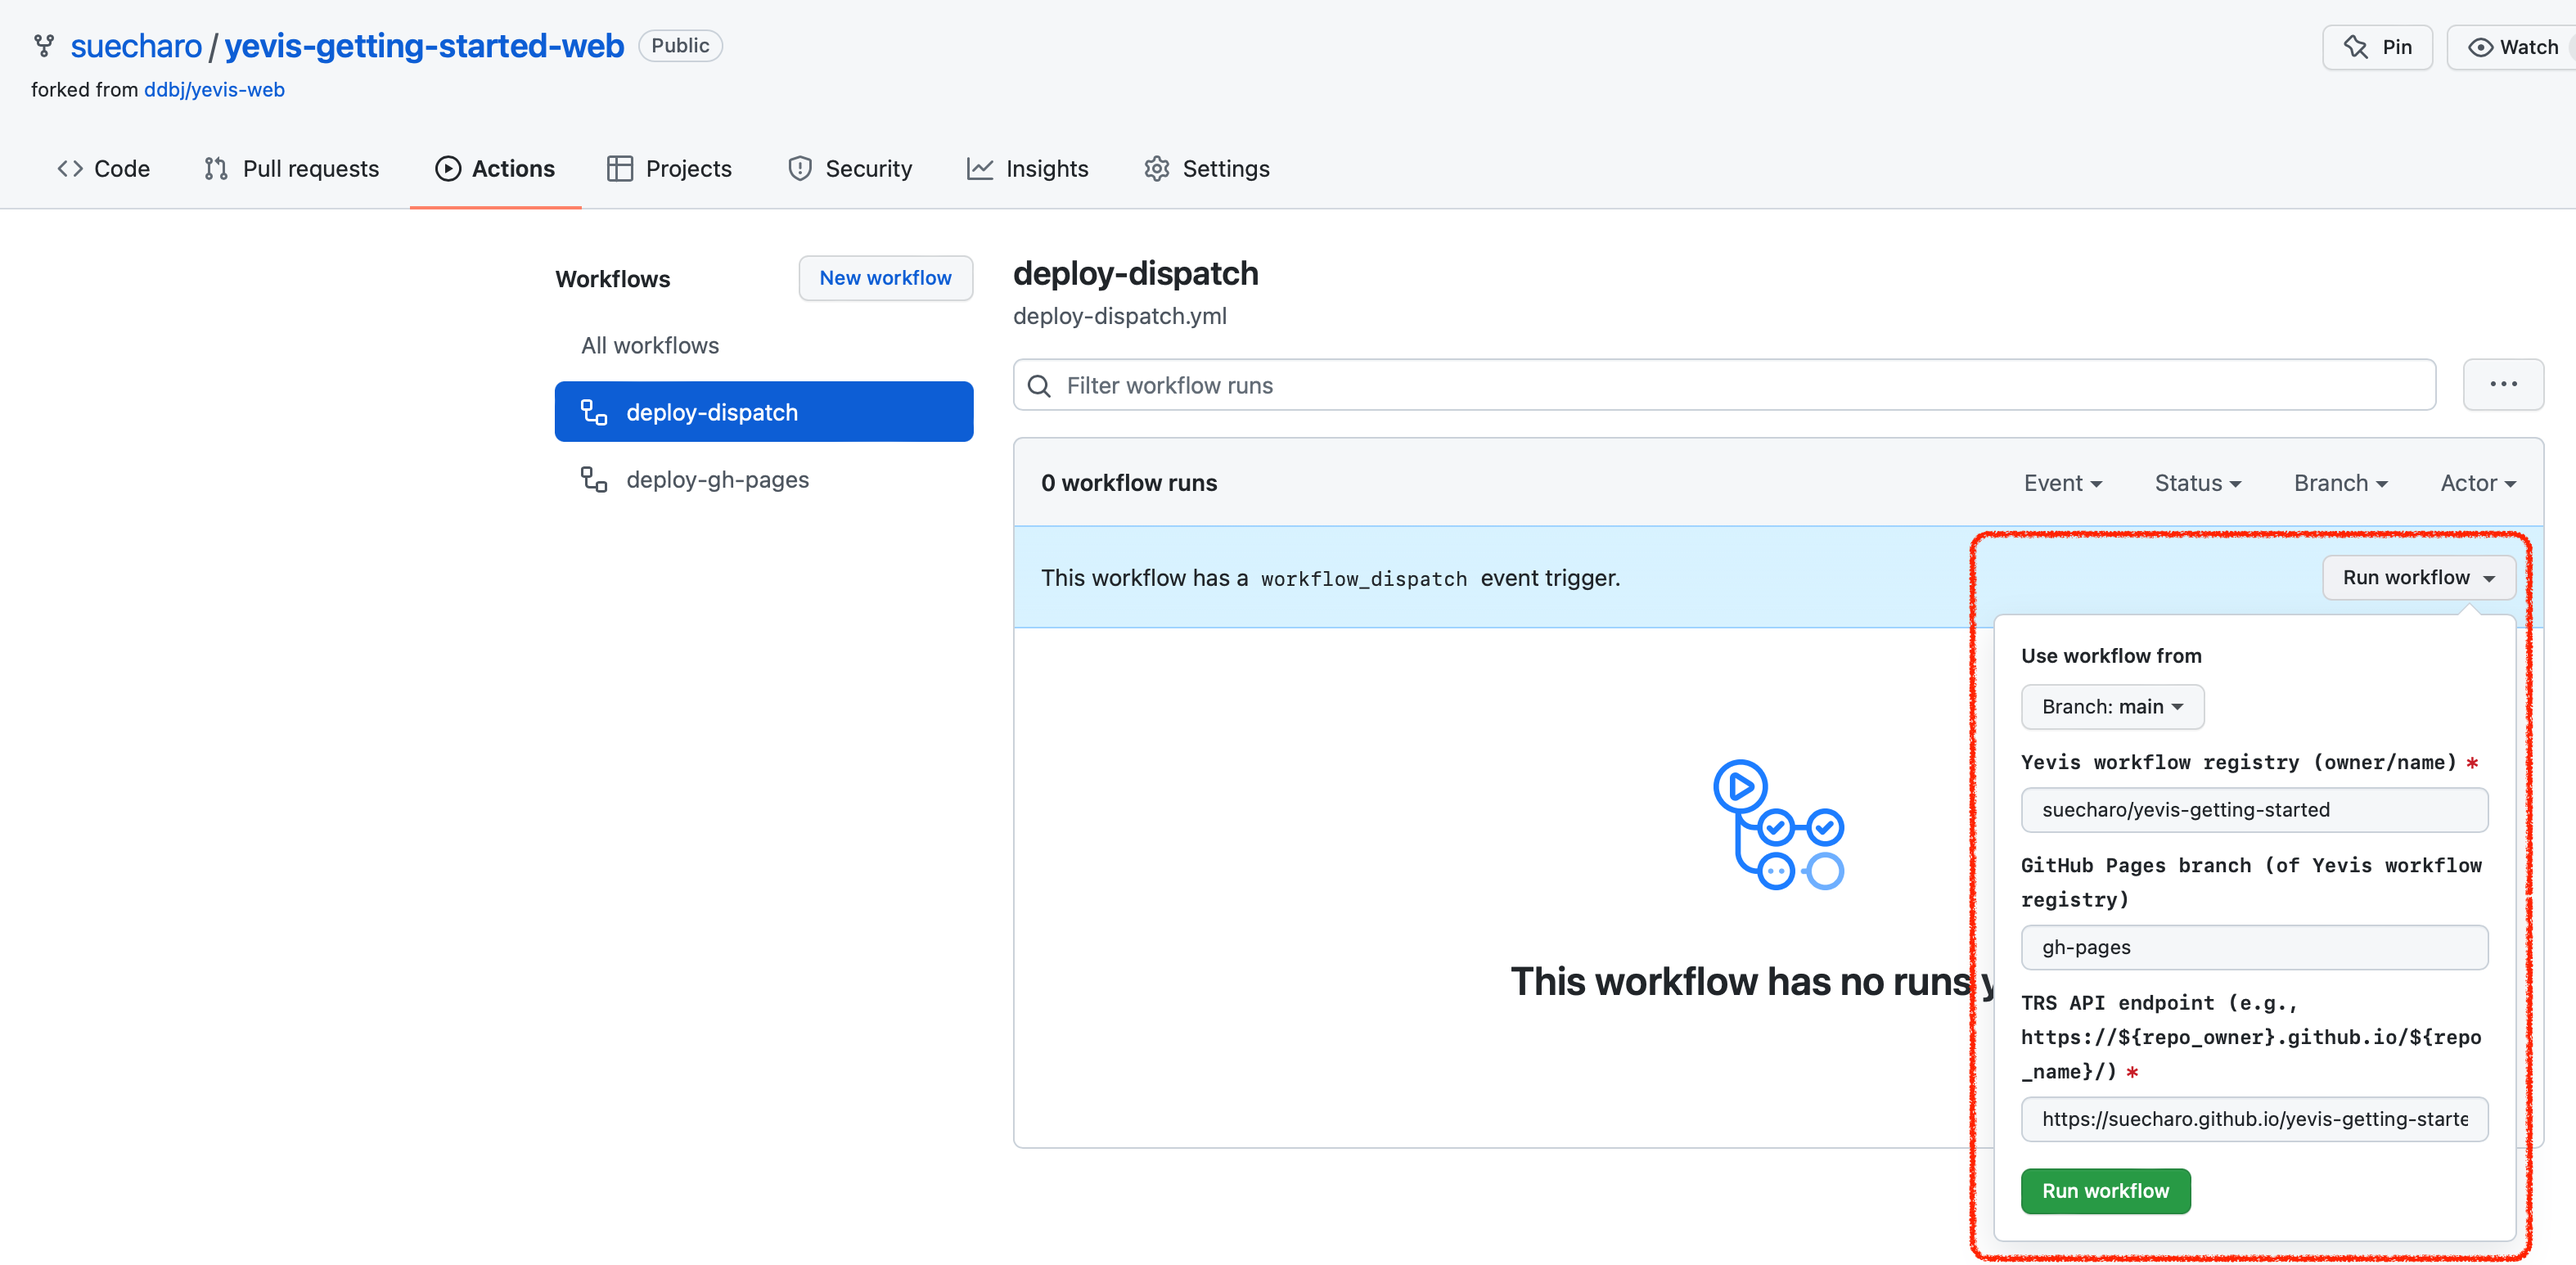
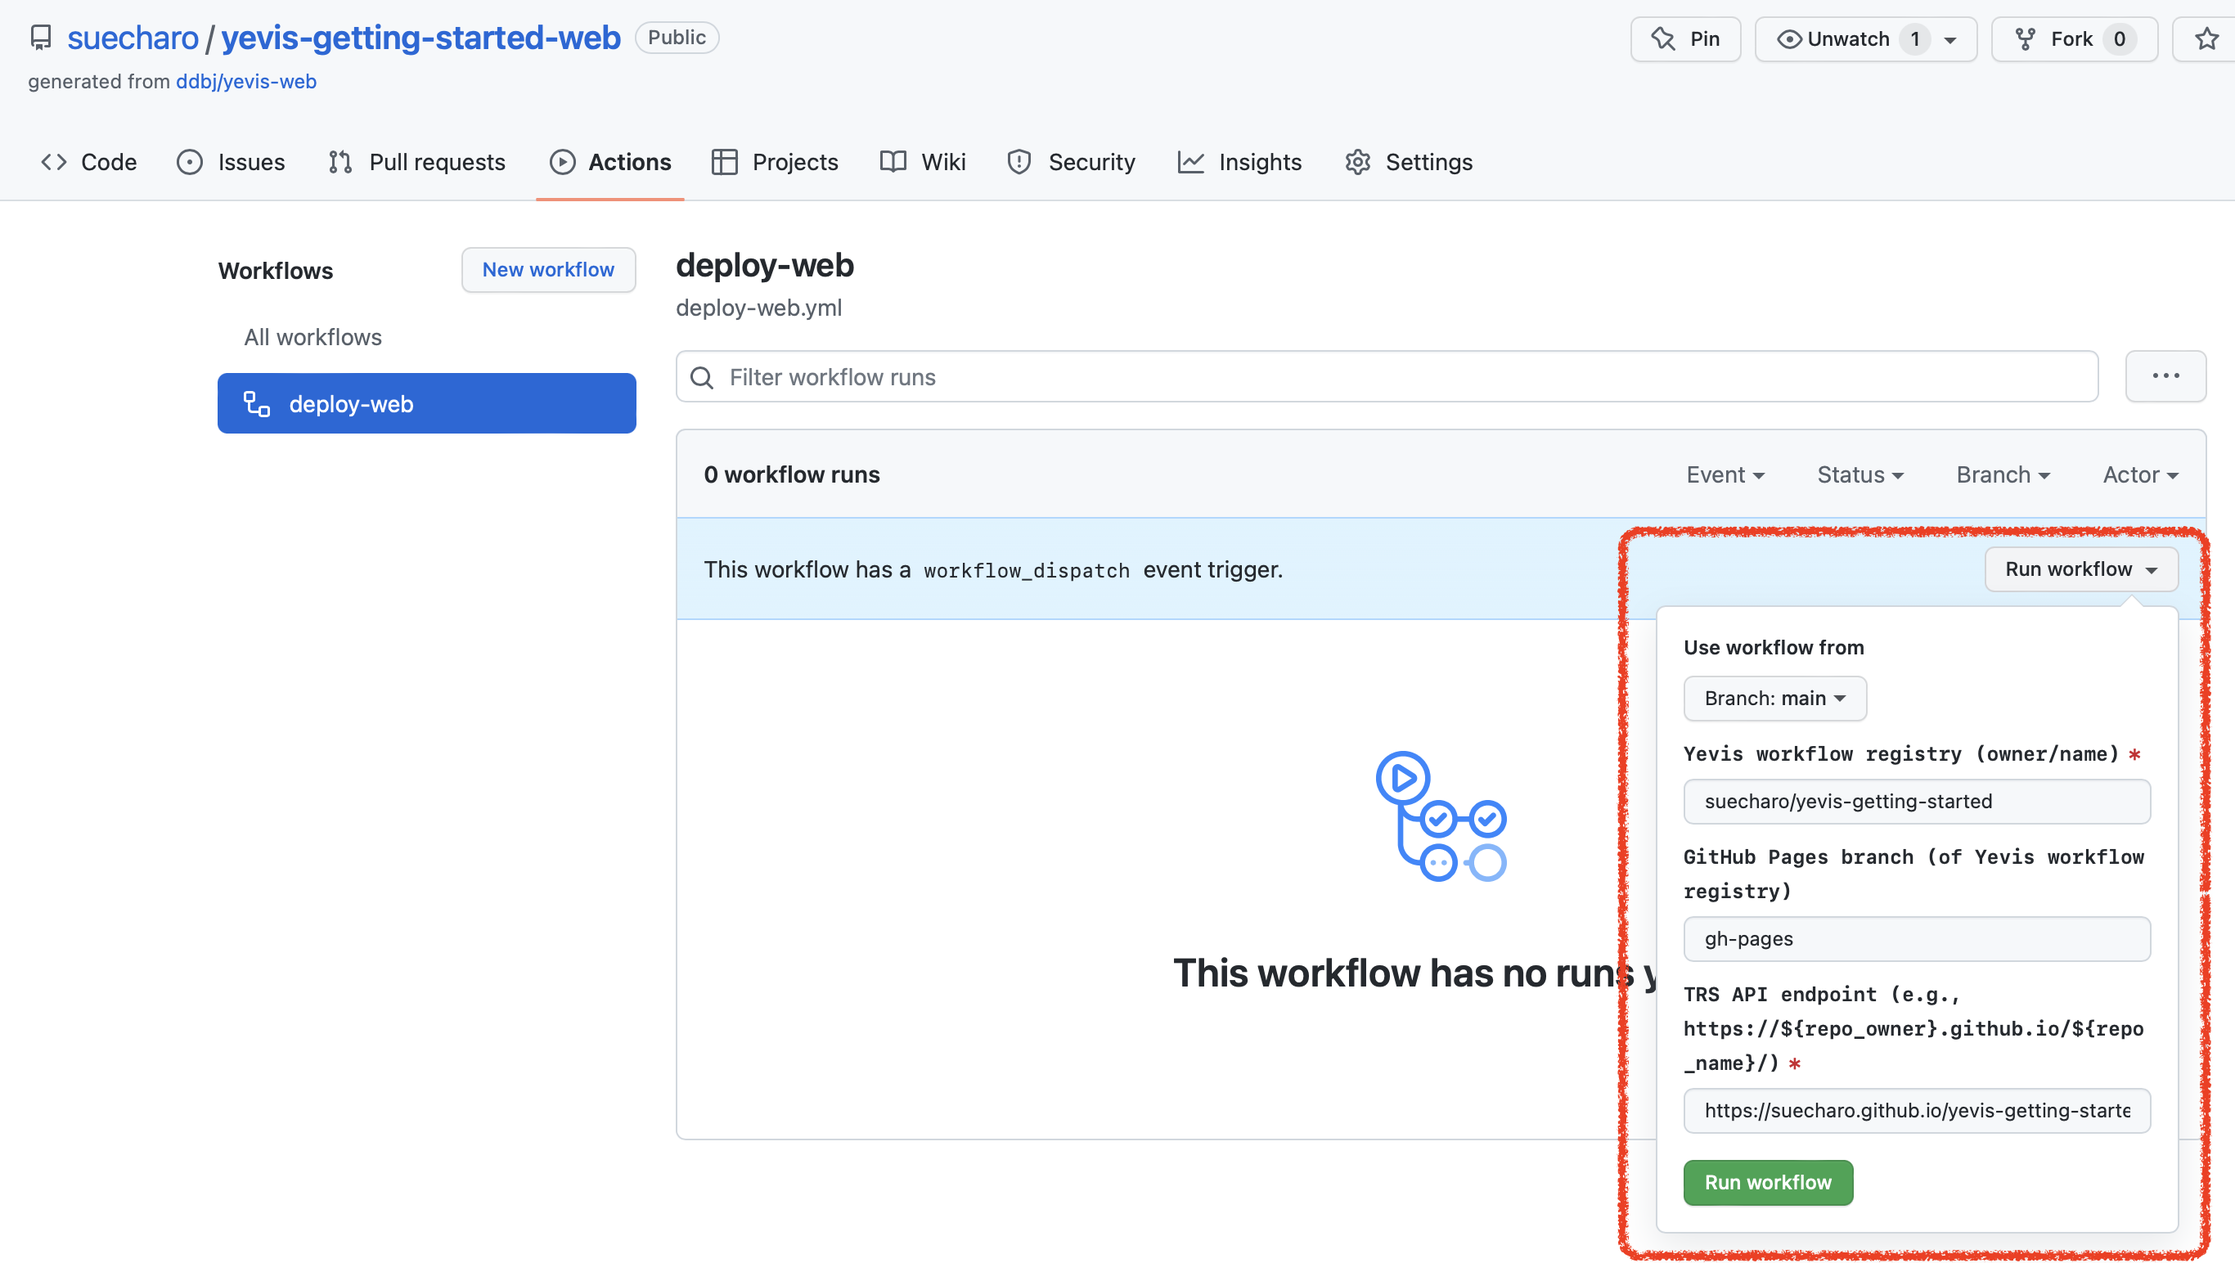
Update getting started docs

diff --git a/docs/getting_started_ja.md b/docs/getting_started_ja.md
@@ -47,11 +47,23 @@
 
 ワークフローをブラウズするための Web Application、[`ddbj/yevis-web`](https://github.com/ddbj/yevis-web) をデプロイします。
 
-まず、[`ddbj/yevis-web`](https://github.com/ddbj/yevis-web) を Fork します。
+この [Link](https://github.com/ddbj/yevis-web/generate) をクリックすると、GitHub Repository の作成が開始されます。
 
-![fork-web-repo.png](./img/fork-web-repo.png)
+**`Include all branched` オプションにチェック入れる必要はありません。**
 
-次に、フォークしたリポジトリの `[Actions] - [deploy-dispatch]` にある GitHub Actions ワークフローを実行します。
+![create-new-web-repository.png](./img/create-new-web-repository.png)
+
+`README.md` と `LICENSE` はファイルは自由に設定できます。
+
+---
+
+`[Settings] - [Actions] - [General]` において、ワークフローのパーミッションが `Read` と `Write` のアクセス権を持っていることを確認します。
+
+![./img/repo-settings-permission.png](./img/repo-settings-permission.png)
+
+---
+
+次に、作成したリポジトリの `[Actions] - [deploy-web]` にある GitHub Actions ワークフローを実行します。
 
 ワークフローを実行するために、以下のパラメータを入力します。
 

diff --git a/docs/getting_started.md b/docs/getting_started.md
@@ -47,11 +47,23 @@ Then, in `[Settings] - [Secrets] - [Actions]` of the created repository, registe
 
 Deploy [`ddbj/yevis-web`](https://github.com/ddbj/yevis-web), a web application to browse a workflow registry.
 
-First, fork the [`ddbj/yevis-web`](https://github.com/ddbj/yevis-web) repository.
+First, click on this [Link](https://github.com/ddbj/yevis-web/generate) to start the creation of the GitHub repository.
 
-![fork-web-repo.png](./img/fork-web-repo.png)
+**Do not need to check the `Include all branched` option.**
 
-Then, execute the GitHub Actions workflow in `[Actions] - [deploy-dispatch]` of the forked repository.
+![create-new-web-repository.png](./img/create-new-web-repository.png)
+
+You can set `README.md` and `LICENSE` files freely.
+
+---
+
+In `[Settings] - [Actions] - [General]`, make sure that the workflow permissions have `Read` and `Write` access.
+
+![./img/repo-settings-permission.png](./img/repo-settings-permission.png)
+
+---
+
+Then, execute the GitHub Actions workflow in `[Actions] - [deploy-dispatch]` of the created repository.
 
 Enter the following parameters for running the workflow:
 
